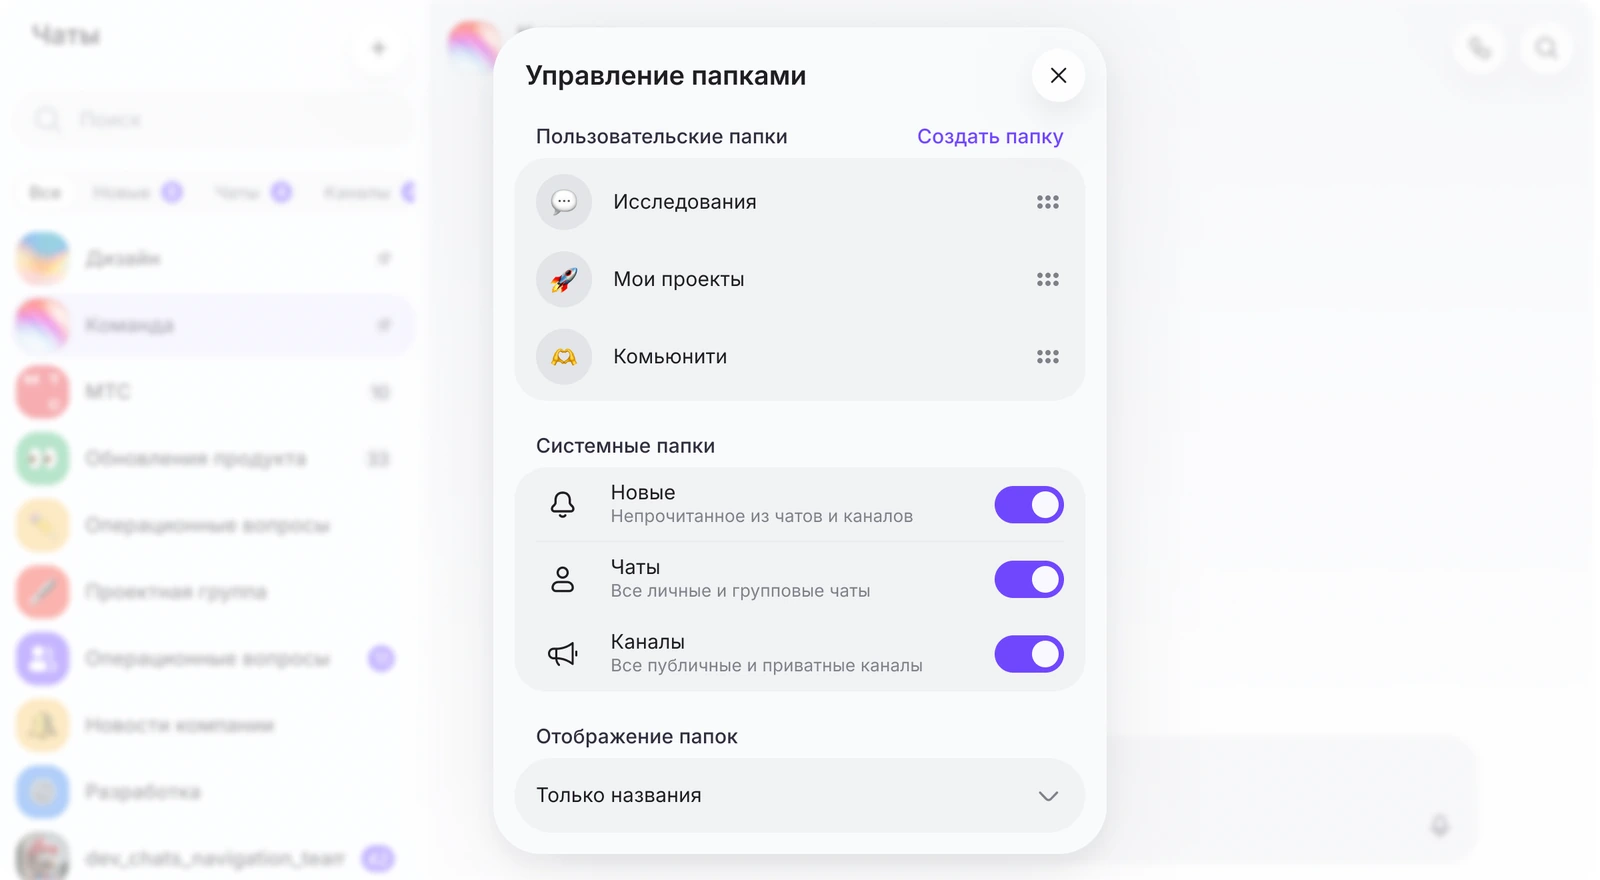
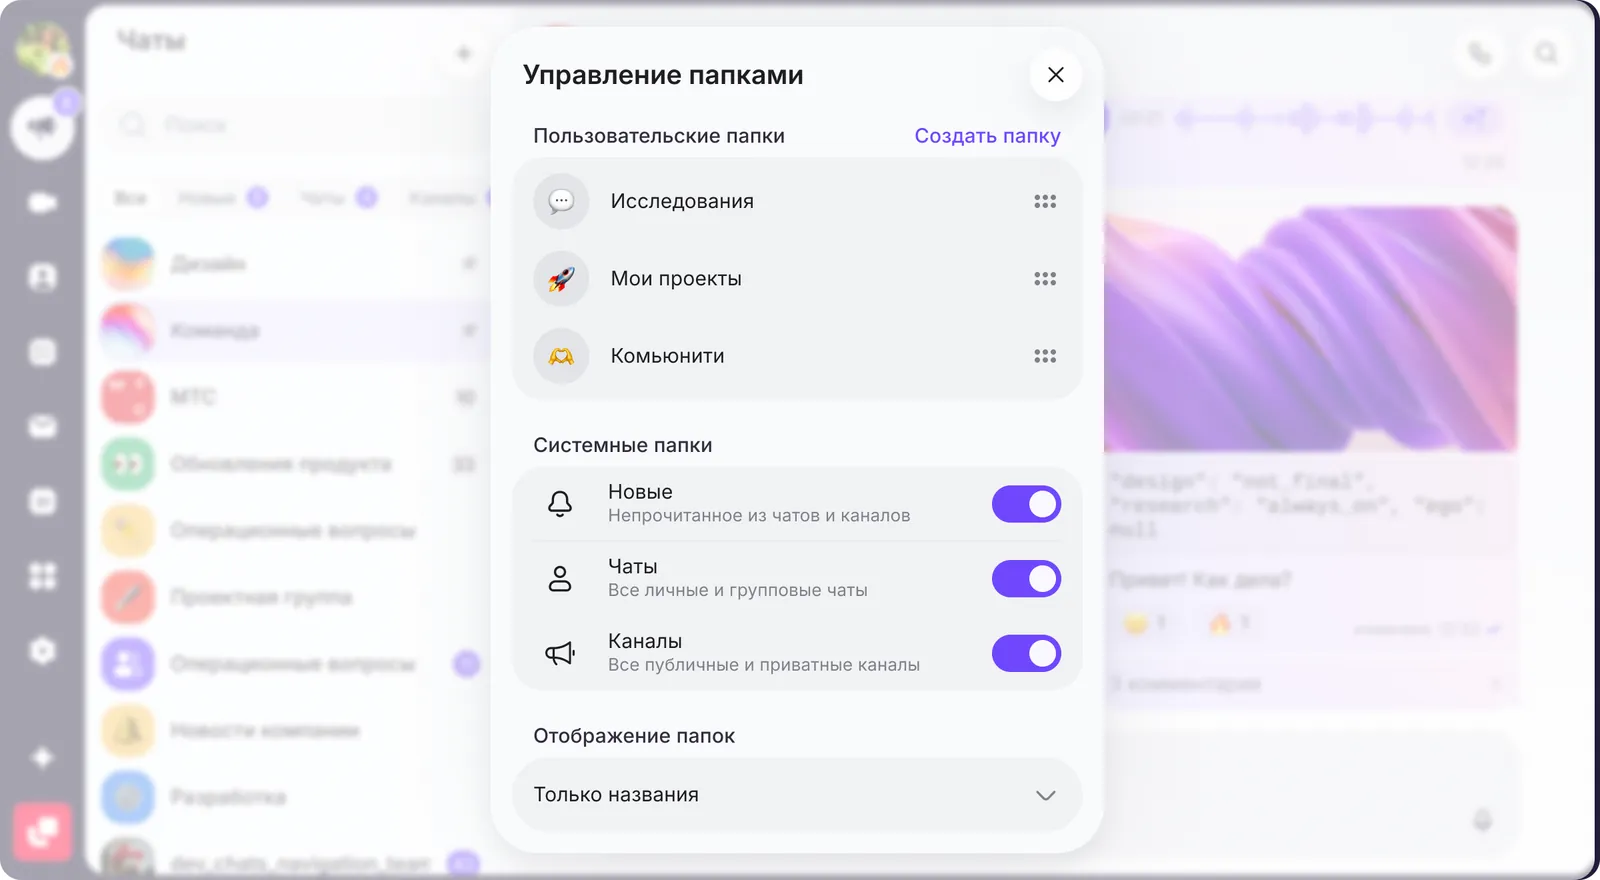
Обновление сайта: мобильные карточки, платформы, обложка папок
- карточки ≤425 px: обложка с отступом 20 px
- скрыты «Период» в кейсах и блок «Учёба»
- новая обложка папок
- платформы в шторках (Папки, FMS, Автотех); без линии под таблицей фактов

Claude-Session: https://claude.ai/code/session_01XYjJ6takSPBPDzBQQkneJ1

diff --git a/site.js b/site.js
@@ -113,12 +113,12 @@ const CASES = {
   },
   folders: {
     slug:'folders', company:'МТС Линк', type:'Папки для чатов и каналов', year:'2026', tone:'plum', layout:'main', hideLead:true,
-    tileFrame:'assets/images/folders/00-cover.webp?v=3',
+    tileFrame:'assets/images/folders/00-cover.webp?v=4',
     chip:'Корпоративные коммуникации',
     title:'Как навести порядок в чатах и каналах',
     outcome:'Топ-3 запрос пользователей. Для 21 клиента папки были условием покупки, потенциал этих сделок за первые 6 месяцев 2026 года превышал 25 млн ₽.',
     description:'Для 21 клиента наличие папок было условием покупки МТС Линк. Совокупный потенциал этих сделок за первые 6 месяцев 2026 года превышал 25 млн ₽.',
-    role:'Senior Product Designer · весь кейс', platform:'', period:'Июль – сентябрь 2026',
+    role:'Senior Product Designer · весь кейс', platform:'Web · iOS · Android', period:'Июль – сентябрь 2026',
     team:'1 дизайнер, 1 PM, 8 разработчиков, 4 QA',
     links:[['Материалы',[['Figma','https://www.figma.com/design/XyljjzmxTIrdZ5Bhfu2LKe/Design-project?node-id=21243-18374'],['Исследование','https://www.figma.com/board/QpAm2rsQvbiC84m8EcxSds/Research-chat-rolders?node-id=0-1&p=f&t=XBtbGsFIYSPHixT6-0'],['Функциональная сборка','https://fasttrackia47-beep.github.io/collapse-chat-ui/']]]],
     about:'МТС Линк — платформа для корпоративных коммуникаций. Папки — персональный слой навигации: пользователь собирает чаты и каналы в собственные группы, не меняя структуру коммуникаций.',
@@ -177,7 +177,7 @@ const CASES = {
     title:'Рост CSI до 4.0 и оптимизация полевых обследований',
     outcome:'CSI вырос до 3,5/5 у агрономов и 4/5 у руководителей, Time on Task сократился на ~30 %, ошибок при вводе стало меньше на ~40 %, бизнес-переделок — на ~60 %.',
     description:'Адаптация FMS под условия поля: читаемость, быстрый ввод данных и планирование сезонных работ.',
-    role:'Senior Product Designer', platform:'Web · Mobile', period:'Июль 2022 — Сентябрь 2024',
+    role:'Senior Product Designer', platform:'Web · Android', period:'Июль 2022 — Сентябрь 2024',
     team:'4 дизайнера, 1 PM, 9 разработчиков, 3 QA',
     links:[['Behance',[['Смотреть на Behance','https://www.behance.net/gallery/206700067/AgroTech']]],
            ['Figma',[['Веб-версия','https://www.figma.com/design/XyljjzmxTIrdZ5Bhfu2LKe/Design-project?node-id=20882-61563'],['Мобильное приложение','https://www.figma.com/design/XyljjzmxTIrdZ5Bhfu2LKe/Design-project?node-id=20895-55720']]]],
@@ -234,7 +234,7 @@ const CASES = {
     title:'Как вырастить ARPU при стабильной аудитории 115K+',
     outcome:'ARPU вырос примерно на 11 %: допуслуги ~5 %, персональные уведомления ~4 %, шаг подтверждения номера ~2 %.',
     description:'Платформа обслуживания автомобилей: найти UX-барьеры в воронке и добавить точки монетизации.',
-    role:'UX/UI Designer', platform:'Web', period:'Октябрь 2018 — Ноябрь 2019',
+    role:'UX/UI Designer', platform:'Web · iOS · Android', period:'Октябрь 2018 — Ноябрь 2019',
     team:'3 дизайнера, 1 PM, 8 разработчиков, 2 QA',
     about:'Autotech SaaS-платформа для обслуживания автомобилей (B2C / B2B). Присоединился на этапе работающего продукта.',
     problem:'При стабильной ==MAU около 115K+ ARPU рос медленно==. Конверсия в заявку и доля повторных обращений проседали из-за UX-барьеров и отсутствия понятных точек монетизации. Пользователи путались в сценариях, а сервис не удерживал клиентов на повторный цикл обслуживания.',
@@ -570,12 +570,14 @@ function caseHTML(p) {
   /* Figma временно скрыта в карточке кейса (данные в CASES остаются): убрать метку из HIDE_LINKS — и ссылки вернутся.
      Скрываем по метке, не по адресу: «Исследование» тоже ведёт на figma.com. Несколько ссылок в строке — в одну линию через запятую. */
   const HIDE_LINKS = ['Figma'];
+  /* «Период» скрыт во всех кейсах (непонятно: срок проекта или работы в компании); данные period в CASES остаются. true → строка вернётся */
+  const HIDE_PERIOD = true;
   const facts = [
     ...(p.links || []).filter(([k]) => !HIDE_LINKS.includes(k))
       .map(([k, ls]) => [k, ls.filter(([l]) => !HIDE_LINKS.includes(l)), ls.length])
       .filter(([, vis]) => vis.length)
       .map(([k, vis, n]) => [k, vis.map(([l, u]) => lnk(u, l, n)).join(vis.length > 1 ? ', ' : ''), vis.length > 1 ? 'is-inline' : '']),
-    ['Период', esc(lc(p.period))],
+    ...(HIDE_PERIOD ? [] : [['Период', esc(lc(p.period))]]),
     p.team ? ['Команда', esc(p.team)] : null,
     p.platform ? ['Платформы', esc(lc(p.platform))] : null
   ].filter(Boolean);

diff --git a/index.html b/index.html
@@ -19,8 +19,8 @@
 <link rel="preconnect" href="https://fonts.googleapis.com">
 <link rel="preconnect" href="https://fonts.gstatic.com" crossorigin>
 <link href="https://fonts.googleapis.com/css2?family=Geist:wght@400;500;600&family=Golos+Text:wght@400;500;600&family=Unbounded:wght@500;600;700&family=Literata:wght@500;600&family=IBM+Plex+Sans:wght@400;500;600&family=Inter:wght@400;500;600&family=Permanent+Marker&display=swap" rel="stylesheet">
-<link rel="stylesheet" href="style.css?v=81">
-<script src="site.js?v=94" defer></script>
+<link rel="stylesheet" href="style.css?v=84">
+<script src="site.js?v=96" defer></script>
 </head>
 <body>
 <svg width="0" height="0" style="position:absolute" aria-hidden="true" focusable="false"><filter id="displace-1" x="-50%" y="-50%" width="200%" height="200%"><feTurbulence type="turbulence" baseFrequency="0.03" numOctaves="3" seed="1" result="turbulence"/><feDisplacementMap in="SourceGraphic" in2="turbulence" scale="1.4" xChannelSelector="R" yChannelSelector="G"/></filter><filter id="displace-2" x="-50%" y="-50%" width="200%" height="200%"><feTurbulence type="turbulence" baseFrequency="0.03" numOctaves="3" seed="2" result="turbulence"/><feDisplacementMap in="SourceGraphic" in2="turbulence" scale="1.4" xChannelSelector="R" yChannelSelector="G"/></filter><filter id="displace-3" x="-50%" y="-50%" width="200%" height="200%"><feTurbulence type="turbulence" baseFrequency="0.03" numOctaves="3" seed="3" result="turbulence"/><feDisplacementMap in="SourceGraphic" in2="turbulence" scale="1.4" xChannelSelector="R" yChannelSelector="G"/></filter><filter id="displace-4" x="-50%" y="-50%" width="200%" height="200%"><feTurbulence type="turbulence" baseFrequency="0.03" numOctaves="3" seed="4" result="turbulence"/><feDisplacementMap in="SourceGraphic" in2="turbulence" scale="1.4" xChannelSelector="R" yChannelSelector="G"/></filter><filter id="displace-5" x="-50%" y="-50%" width="200%" height="200%"><feTurbulence type="turbulence" baseFrequency="0.03" numOctaves="3" seed="5" result="turbulence"/><feDisplacementMap in="SourceGraphic" in2="turbulence" scale="1.4" xChannelSelector="R" yChannelSelector="G"/></filter></svg>

diff --git a/style.css b/style.css
@@ -1323,3 +1323,14 @@ a:hover > .lnk__ar,a:focus-visible > .lnk__ar{transform:translate(1px,-1px)}
 
 /* слайдер «до/после»: обычный курсор (зум на нём отключён) */
 .sheet__in .ba,.sheet__in .ba *{cursor:default!important}
+
+/* ===== Мобильные карточки (≤425 px): отступ обложки от края карточки — 20 px слева, справа и сверху. >425 px — прежние значения. ===== */
+@media (max-width:425px){
+  [data-variant="b"] .kcard .kcard__media{--cover-pad-x:20px;--cover-pad-y:20px}
+}
+
+/* «Учёба» скрыта по решению автора; код и данные STUDY сохранены. Вернуть — убрать это правило */
+.study{display:none}
+
+/* таблица фактов в шторке: без линии под последней строкой (перед «О проекте») */
+[data-variant="b"] .case__sheet-facts>div:last-child{border-bottom:0;padding-bottom:0}
